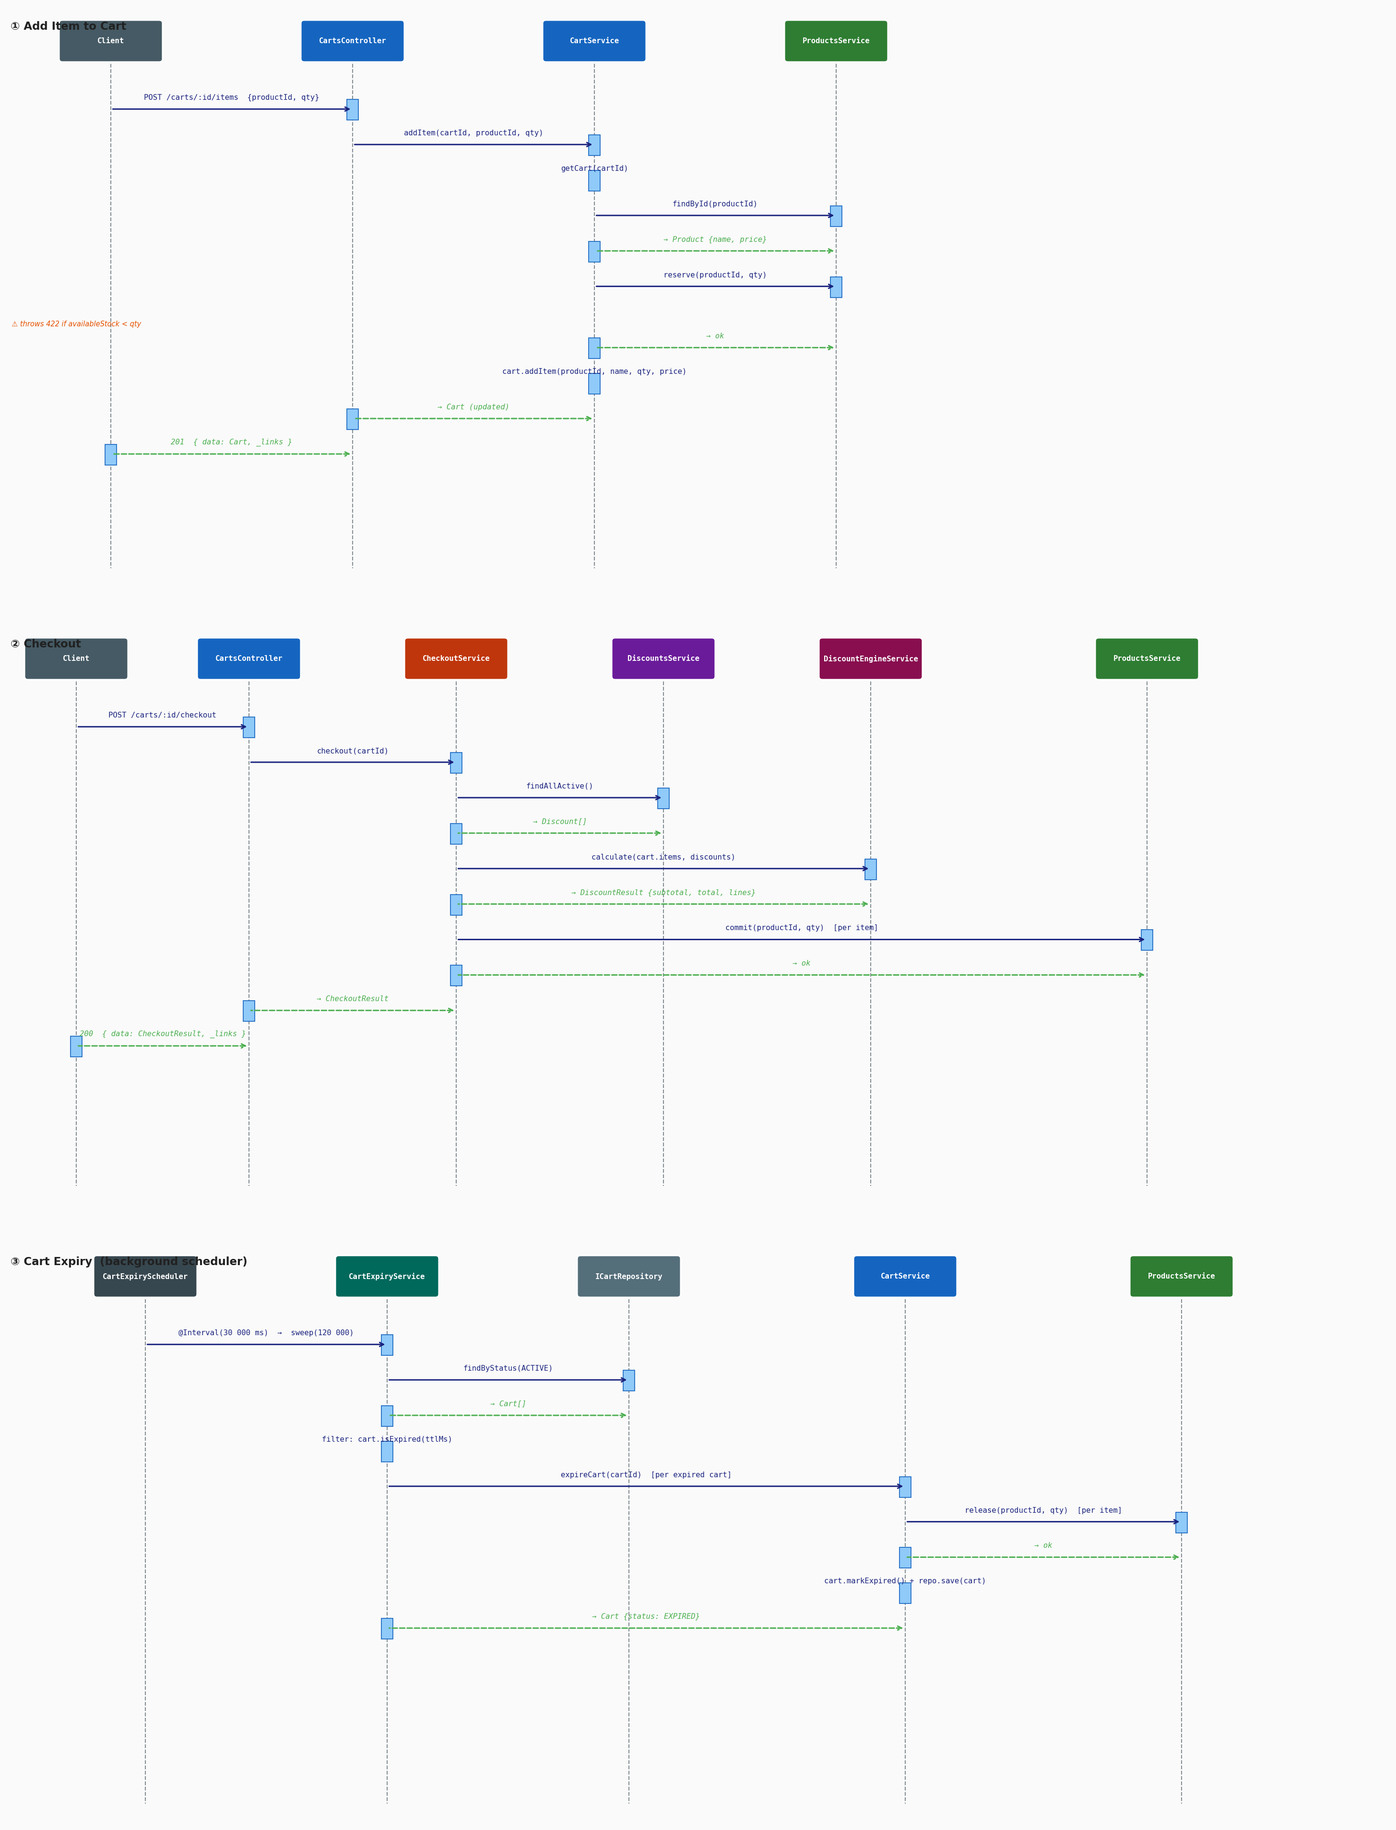
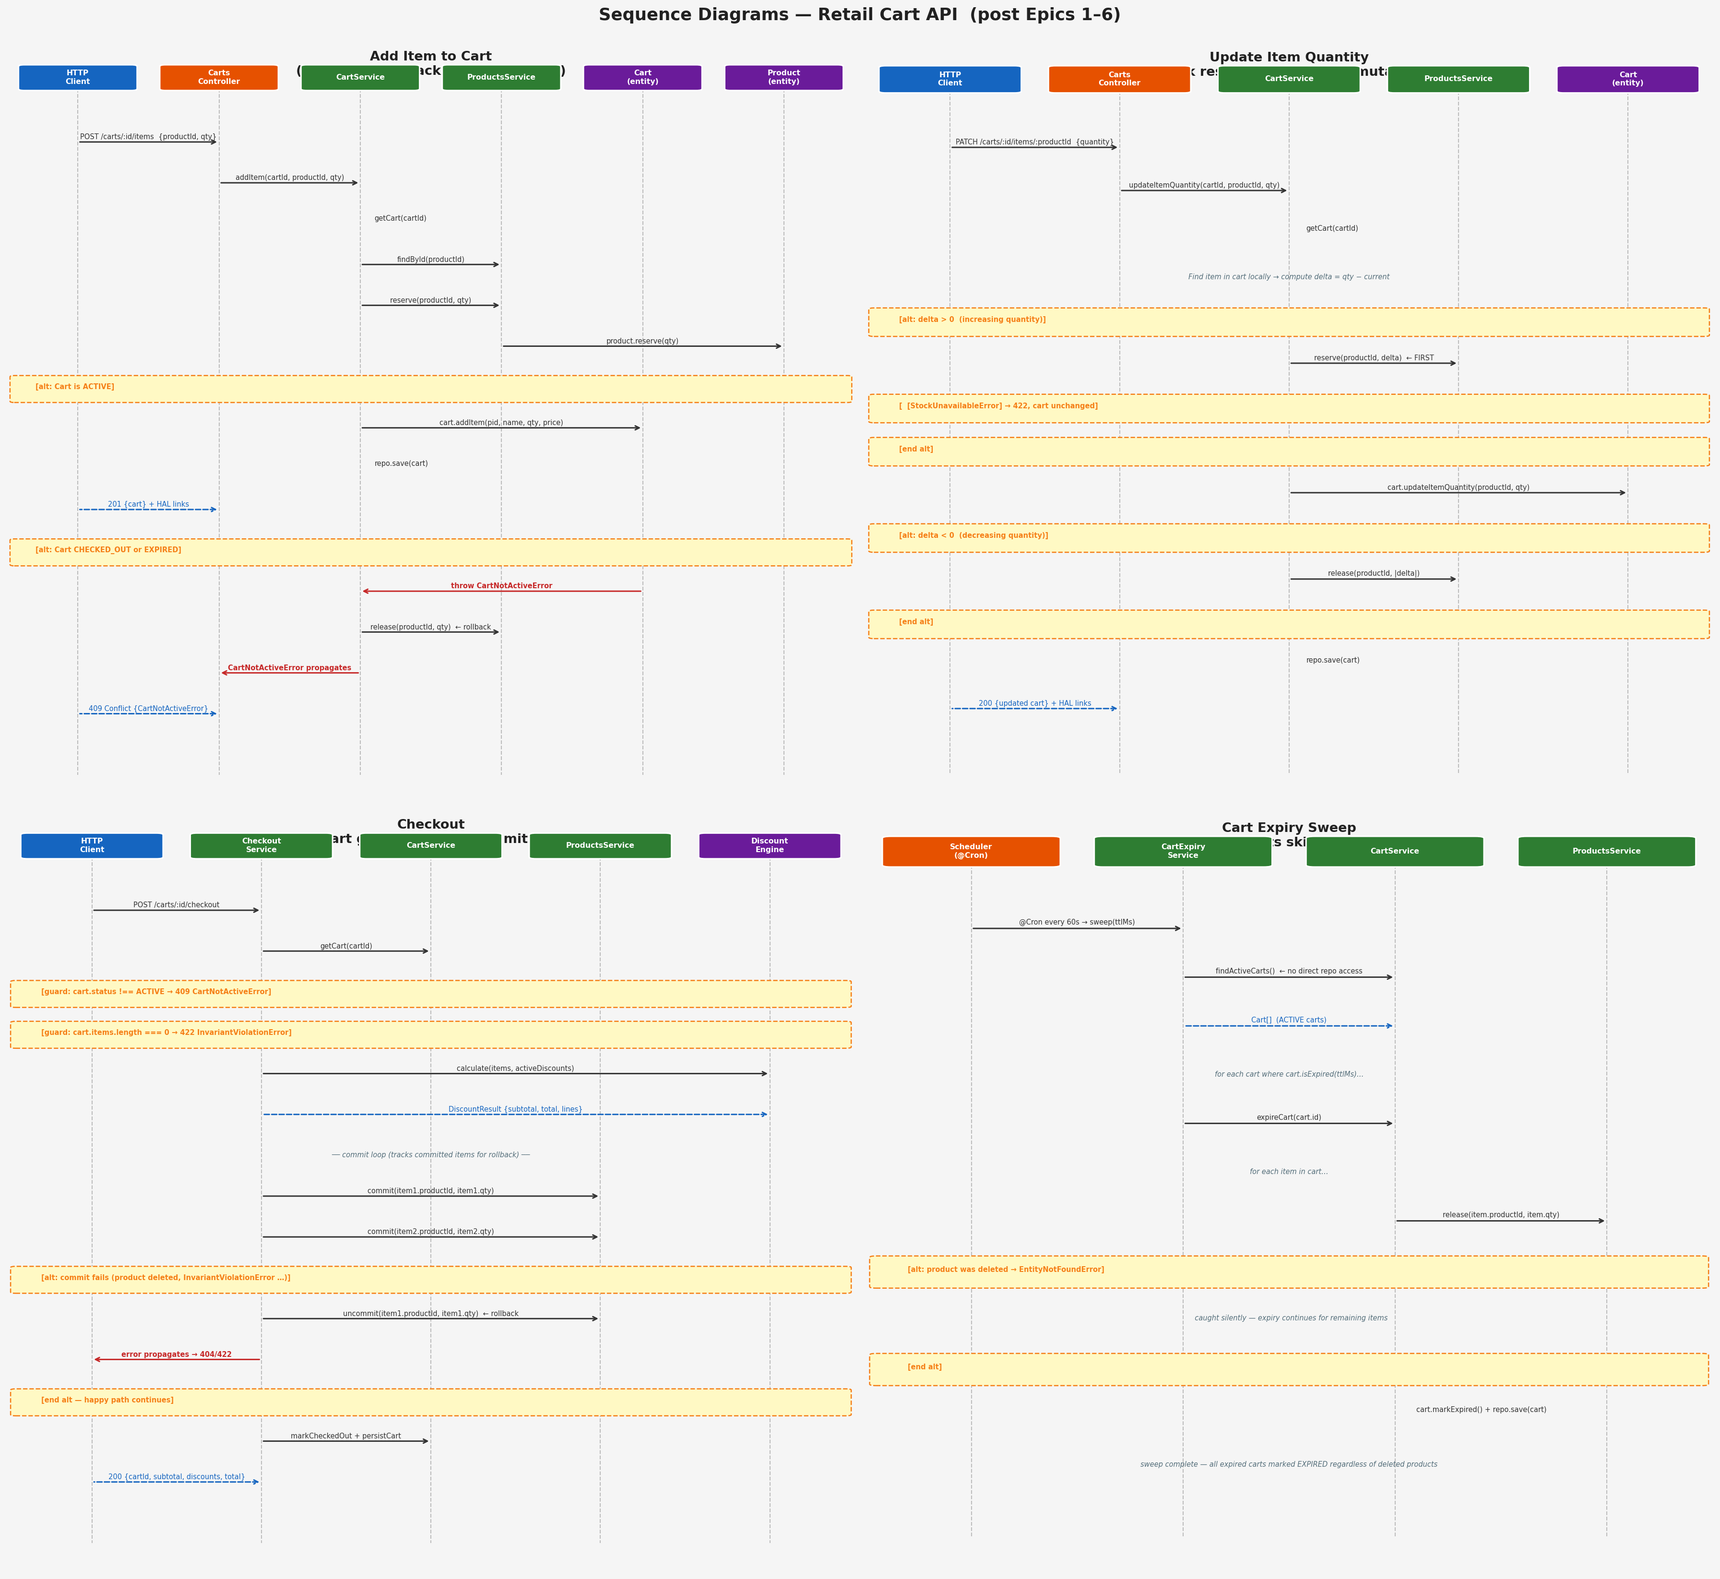
docs: regenerate all diagrams and update README + SOLUTION.md
Diagrams updated to reflect Epics 1–6:
- onion-architecture.png: adds DomainError hierarchy and DomainExceptionFilter
  in the Infrastructure ring; CartExpiryService correctly shown with single
  CartService dependency
- uml-class-diagram.png: full DomainError subclass hierarchy with HTTP status
  mapping; Product.uncommit(); CartService.findActiveCarts(); CheckoutService
  empty-cart guard and rollback annotations; DomainExceptionFilter (APP_FILTER)
- sequence-diagrams.png: four flows — addItem (stock rollback on inactive cart),
  updateItemQuantity (reserve before mutate), checkout (empty-cart guard +
  partial-commit rollback), expiry sweep (deleted products skipped gracefully)

README.md: Node.js v24.15.0 LTS requirement, error-to-HTTP mapping table,
DELETE endpoint added, correct test counts (135 unit / 45 E2E)

SOLUTION.md: updated all design-decision sections to reflect the post-remediation
architecture; checkout safety, expiry resilience, stock rollback via uncommit

diff --git a/SOLUTION.md b/SOLUTION.md
@@ -14,8 +14,8 @@
 ```bash
 npm install
 npm start          # starts on http://localhost:3000
-npm test           # unit tests
-npm run test:e2e   # E2E tests (supertest, no server needed)
+npm test           # unit tests   (135 tests)
+npm run test:e2e   # E2E tests    (45 tests, supertest — no server needed)
 ```
 
 Swagger UI is available at **http://localhost:3000/api**.
@@ -32,9 +32,9 @@ The system is organised as three concentric rings. Each ring may only depend on 
 
 | Ring | Contents | Framework dependency |
 |------|----------|----------------------|
-| **Domain Core** (inner) | `Cart`, `Product`, `Discount` aggregates; `IDiscountStrategy`; `DiscountEngineService`; `DomainError` | None — pure TypeScript |
+| **Domain Core** (inner) | `Cart`, `Product`, `Discount` aggregates; `IDiscountStrategy`; `DiscountEngineService`; `DomainError` hierarchy (`EntityNotFoundError`, `CartNotActiveError`, `StockUnavailableError`, `InvariantViolationError`) | None — pure TypeScript |
 | **Application** (middle) | `CartService`, `CheckoutService`, `CartExpiryService`, `ProductsService`, `DiscountsService` | NestJS `@Injectable` only |
-| **Infrastructure** (outer) | HTTP controllers, in-memory repositories, `CartExpiryScheduler`, NestJS modules | NestJS, Express, `@nestjs/schedule` |
+| **Infrastructure** (outer) | HTTP controllers, in-memory repositories, `DomainExceptionFilter`, `CartExpiryScheduler`, NestJS modules | NestJS, Express, `@nestjs/schedule` |
 
 Repository and strategy interfaces (ports) sit on the Domain/Application boundary. Concrete implementations (adapters) live in Infrastructure and are injected at runtime via NestJS DI tokens (`CART_REPOSITORY`, `DISCOUNT_STRATEGIES`, etc.).
 
@@ -46,11 +46,13 @@ Repository and strategy interfaces (ports) sit on the Domain/Application boundar
 
 Key relationships:
 
-- **Cart** owns a collection of `CartItem` value objects (composition). All mutations go through the `Cart` aggregate — the `addItem`, `updateItemQuantity`, and `removeItem` methods enforce invariants and update `lastActivityAt`.
-- **Product** manages its own stock lifecycle (`reserve` / `release` / `commit`) and exposes `availableStock` as a computed getter (`stock - reserved`).
+- **Cart** owns a collection of `CartItem` value objects (composition). All mutations go through the `Cart` aggregate — `addItem` enforces quantity > 0 and active-cart status before mutating; `updateItemQuantity` and `removeItem` throw `EntityNotFoundError` if the product is not in the cart. Every `getCart()` / `save()` call returns a deep clone so callers cannot accidentally corrupt stored state.
+- **Product** manages its own stock lifecycle (`reserve` / `release` / `commit` / `uncommit`). `availableStock` is a computed getter (`stock − reserved`). `update()` rejects stock values that would drop below the currently reserved quantity.
+- **DomainError hierarchy** — four typed subclasses replace the former catch-all, enabling `DomainExceptionFilter` to return the correct HTTP status code without any controller-level try/catch.
 - **IDiscountStrategy** is an interface with four concrete implementations. Each strategy declares its `type` and `level` (`product` or `cart`), allowing the engine to route discounts correctly.
 - **DiscountEngineService** holds a `Map<DiscountType, IDiscountStrategy>` and runs the two-pass calculation. It depends only on the strategy interface, never on concrete classes.
-- **CheckoutService** orchestrates across `CartService`, `ProductsService`, `DiscountsService`, and `DiscountEngineService` to complete a checkout atomically.
+- **CheckoutService** orchestrates across `CartService`, `ProductsService`, `DiscountsService`, and `DiscountEngineService`. It guards against empty-cart checkout and performs best-effort stock rollback via `uncommit()` if a commit loop fails midway.
+- **CartExpiryService** depends only on `CartService` (no direct repository injection). It delegates active-cart discovery to `CartService.findActiveCarts()`.
 
 ---
 
@@ -58,13 +60,13 @@ Key relationships:
 
 ![Sequence Diagrams](docs/sequence-diagrams.png)
 
-Three key flows are shown:
+**① Add Item to Cart** — `CartService` reserves stock before calling `cart.addItem()`. If the cart is inactive (`CartNotActiveError`), the reservation is immediately released and a 409 is returned. If stock is insufficient, the reservation throws before any cart mutation and a 422 is returned.
 
-**① Add Item to Cart** — A `POST /carts/:id/items` request flows through the controller to `CartService`, which first fetches the product's name and price, then calls `ProductsService.reserve()` to decrement `availableStock`. Only on success does it call `cart.addItem()` and persist. A 422 is returned immediately if stock is insufficient.
+**② Update Item Quantity** — `CartService` computes the delta and calls `ProductsService.reserve(delta)` *before* mutating the cart entity. A `StockUnavailableError` is therefore raised before the cart is touched, ensuring the cart and stock always agree.
 
-**② Checkout** — A `POST /carts/:id/checkout` request delegates to `CheckoutService`, which fetches all active discounts, runs the two-pass discount engine, then commits stock for each cart item (permanently decrementing `product.stock`). The cart status is set to `CHECKED_OUT` and a `CheckoutResult` with subtotal, discount breakdown, and final total is returned.
+**③ Checkout** — `CheckoutService` checks that the cart is ACTIVE *and* non-empty before proceeding. Stock is committed item by item. If any `commit()` fails (e.g. a product was deleted), all previously committed items are reversed via `uncommit()` before the error propagates. A 200 with subtotal, discount breakdown, and total is returned on success.
 
-**③ Cart Expiry (background)** — `CartExpiryScheduler` fires every 30 seconds via `@Interval`. `CartExpiryService.sweep()` loads all `ACTIVE` carts from the repository, filters those where `lastActivityAt` exceeds the 2-minute TTL, and calls `cartService.expireCart()` on each — releasing all stock reservations and marking the cart `EXPIRED`.
+**④ Cart Expiry Sweep** — `CartExpiryScheduler` fires every 30 s. `CartExpiryService.sweep()` calls `CartService.findActiveCarts()` (no direct repo access), filters expired carts, and calls `cartService.expireCart()` on each. Inside `expireCart`, `EntityNotFoundError` from a deleted product is silently skipped so the sweep always completes and the cart is always marked EXPIRED.
 
 ---
 
@@ -74,7 +76,7 @@ The solution follows **Onion Architecture** (Ports & Adapters) with three bounde
 
 | Context | Module | Responsibility |
 |---------|--------|----------------|
-| products | `ProductsModule` | Catalogue CRUD; stock lifecycle (reserve / release / commit) |
+| products | `ProductsModule` | Catalogue CRUD; stock lifecycle (reserve / release / commit / uncommit) |
 | discounts | `DiscountsModule` | Discount catalogue CRUD; strategy registry; discount engine |
 | cart | `CartModule` | Shopping cart CRUD; checkout orchestration; expiry sweep |
 
@@ -82,15 +84,46 @@ The solution follows **Onion Architecture** (Ports & Adapters) with three bounde
 
 ## Design decisions
 
+### Repository isolation via entity cloning
+
+Every in-memory repository clones entities on read and write (`Object.create(Prototype) + Object.assign` to preserve prototype chains). This means the "rollback by not saving" strategy is reliable — if a service operation fails after fetching an entity, the stored state is never corrupted because the fetched object is always an independent copy.
+
+### Typed DomainError hierarchy
+
+`DomainError` is the base class. Four subclasses carry semantic meaning:
+
+| Class | Meaning | HTTP |
+|-------|---------|------|
+| `EntityNotFoundError` | Aggregate not found by ID | 404 |
+| `CartNotActiveError` | Cart is CHECKED_OUT or EXPIRED | 409 |
+| `StockUnavailableError` | Insufficient available stock | 422 |
+| `InvariantViolationError` | Business rule broken | 422 |
+
+`DomainExceptionFilter` (registered via `APP_FILTER` in `AppModule`) maps each subclass to its HTTP status. Services and entities throw; controllers never catch.
+
 ### Stock reservation model
 
 Stock transitions through three states: `available → reserved → committed`.
 
-- `addItem` / `updateItemQuantity` / `removeItem` → `product.reserve()` / `product.release()`
-- `checkout` → `product.commit()` (decrements both `stock` and `reserved`)
-- `expireCart` → `product.release()` for every item
+- `addItem` / `updateItemQuantity` → `product.reserve(delta)`
+- `removeItem` / `expireCart` → `product.release(qty)`
+- `checkout` → `product.commit(qty)` (decrements both `stock` and `reserved`)
+- Checkout rollback → `product.uncommit(qty)` (reinstates `stock` only)
 
 This prevents overselling without requiring pessimistic locking.
+
+### Checkout safety
+
+`CheckoutService.checkout()` applies two guards before touching stock:
+
+1. Cart must be `ACTIVE` → `CartNotActiveError` (409)
+2. Cart must have at least one item → `InvariantViolationError` (422)
+
+On partial commit failure, already-committed items are reversed via `uncommit()` (best-effort — individual rollback failures are silently ignored).
+
+### Cart expiry resilience
+
+`CartExpiryService.expireCart()` wraps each `product.release()` in a try/catch. `EntityNotFoundError` (product deleted since item was added) is silently skipped. Any other error still propagates. This ensures the expiry sweep always terminates and every eligible cart is marked `EXPIRED`.
 
 ### Discount engine (two-pass)
 
@@ -108,11 +141,7 @@ Every resource response is wrapped in `{ data: T, _links: Record<string, HalLink
 
 ### Testing strategy
 
-Tests verify **observable behaviour** (state, return values, thrown exceptions) — never mock call sequences. Application-service tests use real in-memory repositories so they exercise the full use-case without coupling to implementation details. This makes them resilient to refactoring.
-
-### Cart expiry
-
-`CartExpiryScheduler` fires every 30 seconds via `@Interval(30_000)`. `CartExpiryService.sweep()` finds all ACTIVE carts, filters those where `lastActivityAt` is older than 120 seconds, and calls `cartService.expireCart()` on each — releasing all stock reservations and marking the cart EXPIRED.
+Tests verify **observable behaviour** (state, return values, thrown exceptions) — never mock call sequences. Application-service tests use real in-memory repositories so they exercise the full use-case without coupling to implementation details. E2E tests wire the `DomainExceptionFilter` via `app.useGlobalFilters()` and assert the precise HTTP status *and* `error` name in the response body.
 
 ---
 
@@ -121,4 +150,4 @@ Tests verify **observable behaviour** (state, return values, thrown exceptions) 
 - **Persistence**: in-memory only (data is lost on restart). Production would swap `*InMemoryRepository` for database-backed implementations without touching domain or application code.
 - **Authentication / multi-tenancy**: out of scope; all carts and products are globally shared.
 - **Currency**: all prices are stored and returned as JavaScript `number` (float). `toFixed(2)` is applied at subtotal/total boundaries. A production system would use integer cents or a `Decimal` library.
-- **Discount `config` validation**: the DTO accepts a plain object (`@IsObject()`). Deep structural validation per discount type is enforced in `Discount.create()` at the domain layer.
+- **Discount `config` validation**: the DTO accepts a plain object (`@IsObject()`). Deep structural validation per discount type is enforced in `Discount.create()` at the domain layer via `InvariantViolationError`.

diff --git a/README.md b/README.md
@@ -3,10 +3,20 @@
 A RESTful shopping cart API with product catalogue, discount engine, and HATEOAS hypermedia links.
 Built with NestJS + TypeScript for the Legal & General take-home exercise.
 
-## Prerequisites
+---
 
-- Node.js 18+
-- npm 8+
+> ## ⚠ Prerequisites: Node.js v24.15.0 LTS
+>
+> **This project requires Node.js >= 24.15.0 (current LTS).**
+> Running on an older version is not supported and will produce unexpected behaviour.
+> Download the latest LTS from [nodejs.org](https://nodejs.org).
+>
+> ```bash
+> node --version   # must print v24.15.0 or higher
+> npm  --version   # must print v10.0.0 or higher
+> ```
+
+---
 
 ## Getting Started
 
@@ -24,62 +34,106 @@ npm run start:dev
 npm start
 ```
 
-The API is available at `http://localhost:3000`.
+The API is available at `http://localhost:3000`.  
 Swagger UI is available at `http://localhost:3000/api`.
+
+---
 
 ## Running Tests
 
 ```bash
-# Unit tests
-npm run test
+# Unit tests (135 tests across 11 suites)
+npm test
 
-# Unit tests with coverage
+# Unit tests with coverage report
 npm run test:cov
 
-# E2E tests
+# E2E tests — supertest, no server required (45 tests)
 npm run test:e2e
 ```
+
+---
 
 ## Linting
 
 ```bash
-npm run lint
-npm run lint:fix
+npm run lint        # report
+npm run lint:fix    # auto-fix
 ```
+
+---
 
 ## Architecture
 
-The project follows **Onion Architecture** (Ports & Adapters) with three layers:
+The project follows **Onion Architecture** (Ports & Adapters) with three strictly-enforced layers:
 
 | Layer | Location | Responsibility |
 |---|---|---|
-| Domain Core | `src/{context}/domain/` | Entities, value objects, repository interfaces, domain services |
-| Application | `src/{context}/application/` | Use-case orchestration, application services |
-| Infrastructure | `src/{context}/infrastructure/` | HTTP controllers, in-memory repositories, DTOs, Swagger |
+| **Domain Core** | `src/{context}/domain/` | Entities, value objects, repository/strategy ports, `DomainError` hierarchy, `DiscountEngineService` |
+| **Application** | `src/{context}/application/` | Use-case orchestration, application services |
+| **Infrastructure** | `src/{context}/infrastructure/` | HTTP controllers, in-memory repositories, `DomainExceptionFilter`, scheduler, DTOs, Swagger |
 
-**Bounded contexts:** `products`, `discounts`, `cart`
+**Bounded contexts:** `products` · `discounts` · `cart`
 
-See [docs/adr/001-onion-architecture.md](docs/adr/001-onion-architecture.md) for the full architectural decision record.
+See [SOLUTION.md](SOLUTION.md) for detailed design decisions, diagrams, and implementation notes.  
+See [docs/adr/001-onion-architecture.md](docs/adr/001-onion-architecture.md) for the architectural decision record.
+
+---
+
+## Error Handling
+
+All domain errors propagate as typed subclasses and are mapped to HTTP status codes by the global `DomainExceptionFilter` (registered via `APP_FILTER`):
+
+| Domain Error | HTTP Status |
+|---|---|
+| `EntityNotFoundError` | 404 Not Found |
+| `CartNotActiveError` | 409 Conflict |
+| `StockUnavailableError` | 422 Unprocessable Entity |
+| `InvariantViolationError` | 422 Unprocessable Entity |
+
+---
 
 ## API Endpoints
 
-| Method | Path | Description |
-|---|---|---|
-| `POST` | `/products` | Create a product |
-| `GET` | `/products` | List all products |
-| `GET` | `/products/:id` | Get product by ID |
-| `PATCH` | `/products/:id` | Update a product |
-| `POST` | `/discounts` | Create a discount |
-| `GET` | `/discounts` | List all discounts |
-| `GET` | `/discounts/:id` | Get discount by ID |
-| `PATCH` | `/discounts/:id` | Update a discount |
-| `POST` | `/carts` | Create a cart |
-| `GET` | `/carts/:id` | Get cart with pricing |
-| `POST` | `/carts/:id/items` | Add item to cart |
-| `PATCH` | `/carts/:id/items/:productId` | Update item quantity |
-| `DELETE` | `/carts/:id/items/:productId` | Remove item from cart |
-| `POST` | `/carts/:id/checkout` | Checkout cart |
+| Method | Path | Description | Success |
+|---|---|---|---|
+| `POST` | `/products` | Create a product | 201 |
+| `GET` | `/products` | List all products | 200 |
+| `GET` | `/products/:id` | Get product by ID | 200 |
+| `PATCH` | `/products/:id` | Update a product | 200 |
+| `DELETE` | `/products/:id` | Delete a product | 204 |
+| `POST` | `/discounts` | Create a discount | 201 |
+| `GET` | `/discounts` | List all discounts | 200 |
+| `GET` | `/discounts/:id` | Get discount by ID | 200 |
+| `PATCH` | `/discounts/:id` | Update a discount | 200 |
+| `DELETE` | `/discounts/:id` | Delete a discount | 204 |
+| `POST` | `/carts` | Create a new cart | 201 |
+| `GET` | `/carts/:id` | Get cart with pricing | 200 |
+| `POST` | `/carts/:id/items` | Add item to cart | 201 |
+| `PATCH` | `/carts/:id/items/:productId` | Update item quantity (0 removes) | 200 |
+| `DELETE` | `/carts/:id/items/:productId` | Remove item from cart | 204 |
+| `POST` | `/carts/:id/checkout` | Checkout an active cart | 200 |
 
-## Solution Notes
+All responses follow the **HAL** (`application/hal+json`) format:
 
-See [SOLUTION.md](SOLUTION.md) for implementation approach, assumptions, and design decisions.
+```json
+{
+  "data": { ... },
+  "_links": {
+    "self":     { "href": "/carts/uuid", "method": "GET" },
+    "addItem":  { "href": "/carts/uuid/items", "method": "POST" },
+    "checkout": { "href": "/carts/uuid/checkout", "method": "POST" }
+  }
+}
+```
+
+---
+
+## Discount Types
+
+| Type | Description |
+|---|---|
+| `PERCENTAGE_OFF_PRODUCT` | % discount on a specific product |
+| `FIXED_AMOUNT_OFF_PRODUCT` | Fixed £ amount off a specific product |
+| `BUY_X_GET_Y_FREE` | Buy X units, get Y units free (same product) |
+| `CART_THRESHOLD_PERCENTAGE` | % off entire cart when subtotal exceeds threshold |
